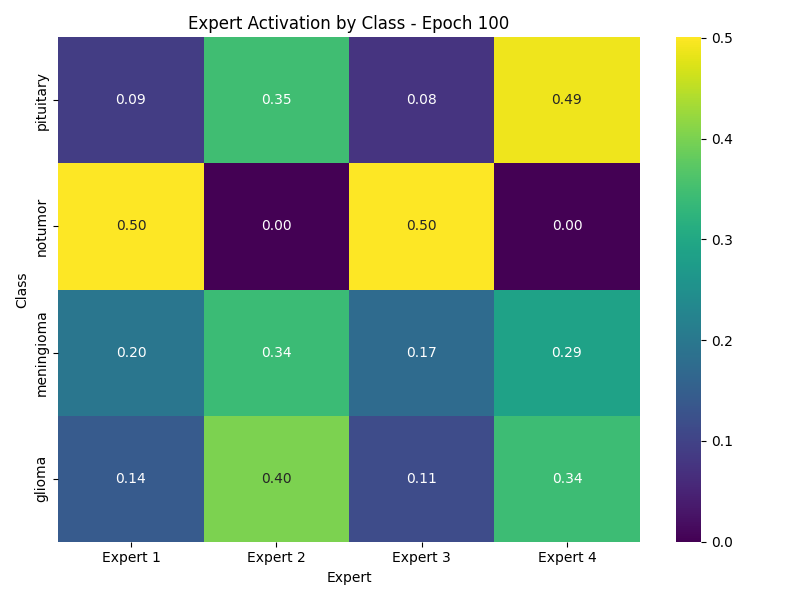
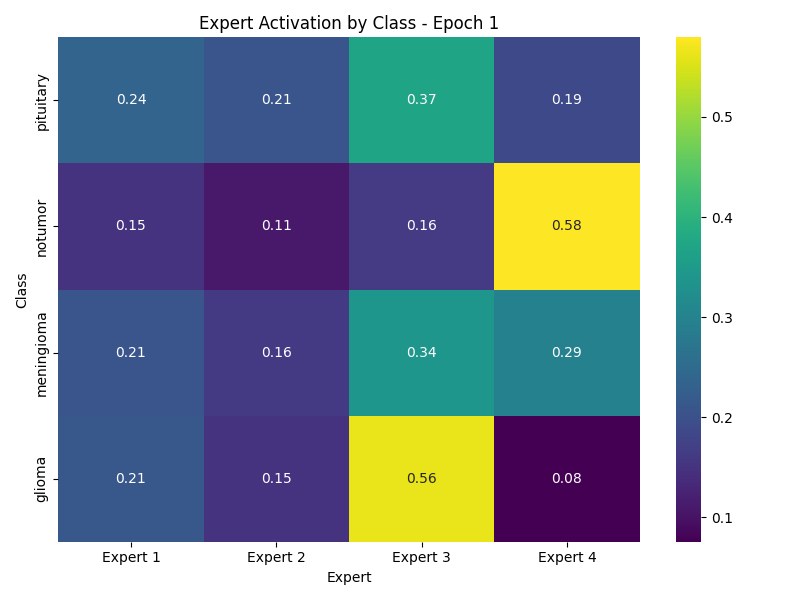
Added intensity clamp, mean/std normalizations according to dataset and fixed class count bug

diff --git a/mri-classification.py b/mri-classification.py
@@ -110,6 +110,26 @@ class AutomaticBrightnessAndContrast(torch.nn.Module):
         
         return auto_result
 
+class IntensityClamp(torch.nn.Module):
+    """Clamp intensity values to handle outliers in MRI images"""
+    def __init__(self, percentile_low=1, percentile_high=99):
+        super().__init__()
+        self.percentile_low = percentile_low
+        self.percentile_high = percentile_high
+        
+    def forward(self, x):
+        # Process first channel for MRI (as they're duplicated)
+        if x.shape[0] == 3 and torch.all(x[0] == x[1]) and torch.all(x[1] == x[2]):
+            x_channel = x[0]
+            values = x_channel[x_channel > 0]  # Consider only non-zero values
+            if len(values) > 0:
+                p_low = torch.quantile(values, self.percentile_low/100)
+                p_high = torch.quantile(values, self.percentile_high/100)
+                
+                # Apply to all channels (they're identical)
+                for c in range(x.shape[0]):
+                    x[c] = torch.clamp(x[c], p_low, p_high)
+        return x
 class VisualizationTracker:
     """Tracks and visualizes training metrics, confusion matrices, and expert activations."""
     
@@ -240,13 +260,10 @@ class VisualizationTracker:
         plt.savefig(f'visualizations/expert_activations.png')
         plt.close()
 
-def generate_activation_maps(model, sample_images, device, class_names, save_dir='visualizations'):
+def generate_activation_maps(model, sample_images, device, class_names, mean,std, save_dir='visualizations'):
     """Generate activation maps showing what each expert focuses on for MRI images."""
     os.makedirs(save_dir, exist_ok=True)
     
-    # ImageNet normalization parameters that were applied
-    mean = np.array([0.485, 0.456, 0.406])
-    std = np.array([0.229, 0.224, 0.225])
     
     model.eval()
     with torch.no_grad():
@@ -621,12 +638,56 @@ class MRI_Dataset(Dataset):
             image = self.transform(image)
         return image, label
 
+def calculate_normalization_params(dataset, batch_size=32):
+    """Calculate the mean and std of the dataset for normalization"""
+    loader = DataLoader(
+        dataset, 
+        batch_size=batch_size,
+        num_workers=4,
+        shuffle=False
+    )
+    
+    # For MRI images converted to 3-channel (but identical channels)
+    mean = 0.0
+    std = 0.0
+    total_samples = 0
+    
+    for images, _ in tqdm(loader, desc="Calculating normalization parameters"):
+        batch_samples = images.size(0)
+        # Since channels are identical for MRI (replicated grayscale), just use one channel
+        images = images[:, 0, :, :].view(batch_samples, -1)
+        mean += images.mean(1).sum().item()
+        std += images.std(1).sum().item()
+        total_samples += batch_samples
+            
+    mean /= total_samples
+    std /= total_samples
+    
+    # For 3-channel representation
+    return [mean, mean, mean], [std, std, std]
+
+
 def main():
     set_seed(42)
     batch_size = 24  
     device = torch.device('cuda' if torch.cuda.is_available() else 'cpu')
     print(f'Using device: {device}')
-    # mean and std are from imagenet
+    
+    # Create a dataset without normalization first
+    temp_dataset = MRI_Dataset(
+        root_dir=R'C:\Users\Precision\Onus\Data\Brain-MRIs\Training', 
+        transform=transforms.Compose([
+            transforms.ToPILImage(),
+            transforms.Resize((224,224)),
+            transforms.ToTensor(),
+            AutomaticBrightnessAndContrast(clip_hist_percent=1),
+            IntensityClamp(percentile_low=1, percentile_high=99),
+        ])
+    )
+
+    mri_mean, mri_std = calculate_normalization_params(temp_dataset)
+    print(f"MRI Dataset - Mean: {mri_mean[0]:.4f}, Std: {mri_std[0]:.4f}")
+    
     # Data augmentation and normalization for training
     transform_train = transforms.Compose([
         transforms.ToPILImage(),
@@ -634,19 +695,20 @@ def main():
         transforms.RandomHorizontalFlip(),
         transforms.ToTensor(),
         AutomaticBrightnessAndContrast(clip_hist_percent=1),
-        transforms.Normalize(mean=[0.485, 0.456, 0.406], std=[0.229, 0.224, 0.225])
+        IntensityClamp(percentile_low=1, percentile_high=99),
+        transforms.Normalize(mean=mri_mean, std=mri_std)
     ])
-    # Normalize only for testing
+    # No augumentation, only Normalize for testing
     transform_test = transforms.Compose([
         transforms.ToPILImage(),
         transforms.Resize((224,224)),
         transforms.ToTensor(),
         AutomaticBrightnessAndContrast(clip_hist_percent=1),
-        transforms.Normalize(mean=[0.485, 0.456, 0.406], std=[0.229, 0.224, 0.225])
+        IntensityClamp(percentile_low=1, percentile_high=99),
+        transforms.Normalize(mean=mri_mean, std=mri_std)
     ])
 
     
-    # Data loaders
     train_dataset = MRI_Dataset(root_dir=R'C:\Users\Precision\Onus\Data\Brain-MRIs\Training', transform=transform_train)
     test_dataset = MRI_Dataset(root_dir=R'C:\Users\Precision\Onus\Data\Brain-MRIs\Testing', transform=transform_test)
     
@@ -659,13 +721,14 @@ def main():
         test_dataset, batch_size=batch_size, shuffle=False, 
         num_workers=4, pin_memory=True
     )
+    
     num_experts = 4
-    # Create model
+    num_classes = 4
     model = MoE(
         num_experts=num_experts,
         expert_hidden_dim=128,
         temp=2.0,
-        num_classes=10
+        num_classes=num_classes
     ).to(device)
     
     # Separate learning rates for different components
@@ -678,7 +741,6 @@ def main():
     
     optimizer = torch.optim.AdamW(params, weight_decay=0.01)
     
-    # Calculate exact number of steps
     total_epochs = 100  
     total_steps = total_epochs * len(trainloader)  
     
@@ -691,21 +753,13 @@ def main():
         final_div_factor=1e4
     )
     
-    # Initialize visualization tracker
     tracker = VisualizationTracker(
         class_names=list(train_dataset.class_mapping.keys()), 
         num_experts=num_experts
     )
     
-    # Create directories for visualizations
     os.makedirs('visualizations', exist_ok=True)
-    
-    # Loss history for plotting
-    train_loss_history = []
-    test_loss_history = []
-    
     best_accuracy = 0
-    num_classes = 4
     
     # Select a few sample images for activation maps
     sample_indices = [i * (len(test_dataset) // 8) for i in range(4)]  # 4 well-distributed samples
@@ -726,12 +780,10 @@ def main():
         
         # Every 5 epochs, run evaluation
         if epoch % 5 == 0 or epoch == total_epochs - 1:  
-            # Evaluate on test set
             test_metrics = evaluate(model, testloader, device, num_classes)
             print(f'Test Accuracy: {test_metrics["accuracy"]:.3f}%')
             print(f'Test Precision: {test_metrics["precision"]:.3f} | Test Recall: {test_metrics["recall"]:.3f} | Test F1-Score: {test_metrics["f1_score"]:.3f}')
             
-            # Update metrics with test data
             tracker.update_metrics(epoch+1, train_metrics, test_metrics)
             
             # Get predictions for confusion matrix
@@ -745,10 +797,7 @@ def main():
                     all_preds.extend(predicted.cpu().numpy())
                     all_labels.extend(targets.numpy())
             
-            # Plot confusion matrix with epoch info
-            tracker.plot_confusion_matrix(all_labels, all_preds, epoch+1)
-            
-            # Record expert activations across test set
+            tracker.plot_confusion_matrix(all_labels, all_preds, epoch+1)            
             tracker.record_expert_activations(model, testloader, device, epoch+1)
             
             # Generate activation maps for sample images
@@ -757,10 +806,11 @@ def main():
                 sample_images, 
                 device, 
                 list(train_dataset.class_mapping.keys()),
+                mri_mean,
+                mri_std,
                 save_dir=f'visualizations'
             )
             
-            # Save best model
             if test_metrics['accuracy'] > best_accuracy:
                 best_accuracy = test_metrics['accuracy']
                 torch.save(model.state_dict(), 'best_model.pth')
